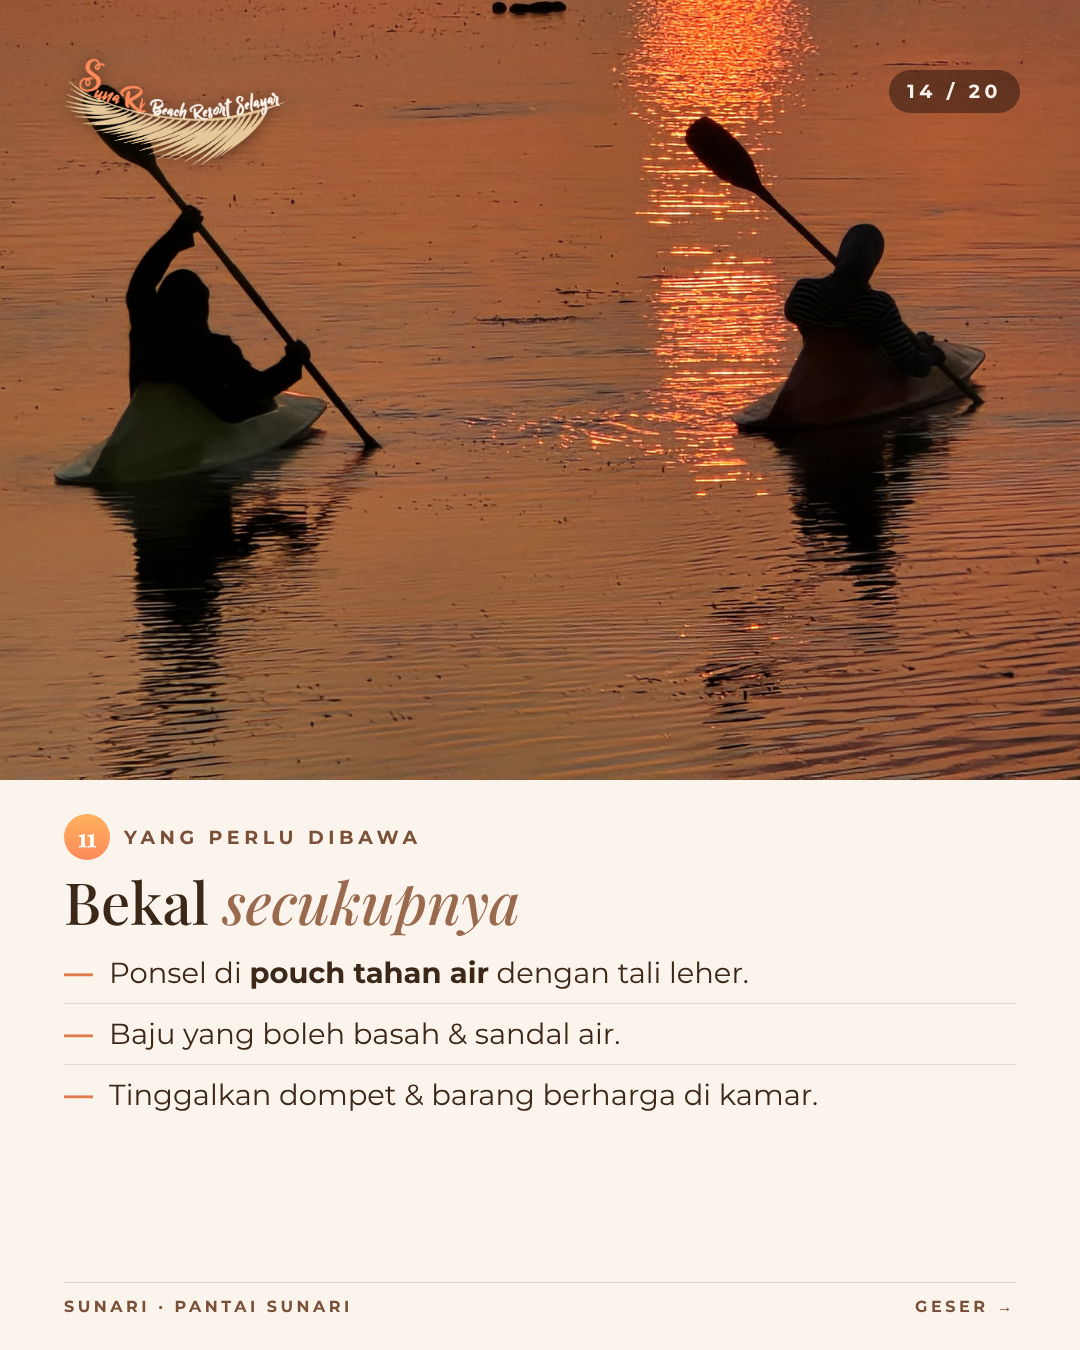
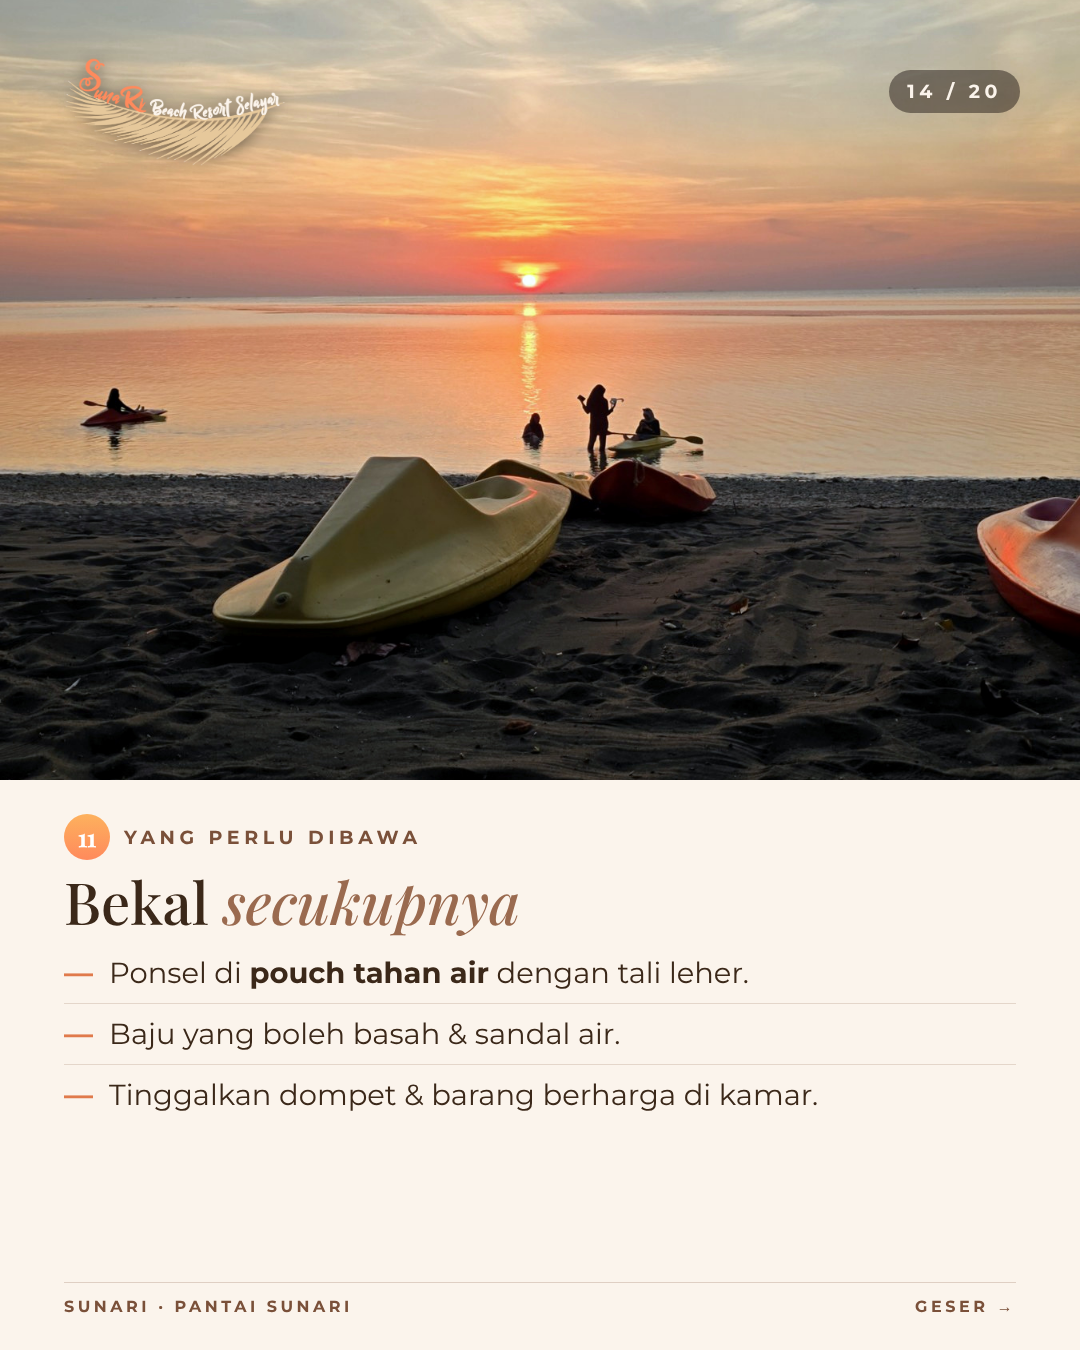
Kayak tips: new color-balanced photo on slide 14
Claude-Session: https://claude.ai/code/session_01AizaiBQtsTmWERPRfEgVV4

diff --git a/social/kayak.html b/social/kayak.html
@@ -87,7 +87,7 @@ ul.k li i{flex:none;font-style:normal;color:#E07A4B;font-weight:700}
   <img class="logo" src="../assets/logo-sunari-color-dark.png" alt=""><div class="pg">13 / 20</div>
   <div class="panel"><div class="eb"><span class="no">10</span>Lindungi mata &amp; kulit</div><div class="h">Jangan menatap <i>matahari langsung</i></div><ul class="k"><li><i>—</i><span>Pakai kacamata hitam &amp; topi, pantulan air menambah silau.</span></li><li><i>—</i><span>Oleskan tabir surya ramah karang sebelum turun ke air.</span></li><li><i>—</i><span>Minum air putih sebelum &amp; sesudah mendayung.</span></li></ul>
     <div class="ft"><span>SunaRi · Pantai Sunari</span><span>Geser →</span></div></div></div><div class="t" id="kayak-14" style="background:#FBF4EC">
-  <div class="ph"><img src="../assets/photos/senja/45-dua-kayak-matahari-1751.jpg" style="left:0px;width:1080px;object-position:50% 100%" alt=""></div>
+  <div class="ph"><img src="../assets/photos/senja/02b-pantai-kayak-di-pasir-balanced.jpg" style="left:0px;width:1080px;object-position:50% 52%" alt=""></div>
   <img class="logo" src="../assets/logo-sunari-color-dark.png" alt=""><div class="pg">14 / 20</div>
   <div class="panel"><div class="eb"><span class="no">11</span>Yang perlu dibawa</div><div class="h">Bekal <i>secukupnya</i></div><ul class="k"><li><i>—</i><span>Ponsel di <b>pouch tahan air</b> dengan tali leher.</span></li><li><i>—</i><span>Baju yang boleh basah &amp; sandal air.</span></li><li><i>—</i><span>Tinggalkan dompet &amp; barang berharga di kamar.</span></li></ul>
     <div class="ft"><span>SunaRi · Pantai Sunari</span><span>Geser →</span></div></div></div><div class="t" id="kayak-15" style="background:#FBF4EC">

diff --git a/social/build_kayak.py b/social/build_kayak.py
@@ -107,7 +107,7 @@ slide(12, "senja/46-dua-kayak-emas-b-1743.jpg", "50% 49%", "Pasang-surut", 'Perh
 # 13-14 dua potongan (senja/45)
 slide(13, "senja/44-dua-kayak-emas-1743.jpg", "50% 60%", "Lindungi mata &amp; kulit", 'Jangan menatap <i>matahari langsung</i>',
       ul(["Pakai kacamata hitam &amp; topi, pantulan air menambah silau.", "Oleskan tabir surya ramah karang sebelum turun ke air.", "Minum air putih sebelum &amp; sesudah mendayung."]), num=10)
-slide(14, "senja/45-dua-kayak-matahari-1751.jpg", "50% 100%", "Yang perlu dibawa", 'Bekal <i>secukupnya</i>',
+slide(14, "senja/02b-pantai-kayak-di-pasir-balanced.jpg", "50% 52%", "Yang perlu dibawa", 'Bekal <i>secukupnya</i>',
       ul(["Ponsel di <b>pouch tahan air</b> dengan tali leher.", "Baju yang boleh basah &amp; sandal air.", "Tinggalkan dompet &amp; barang berharga di kamar."]), num=11)
 
 # 15-16 foto
